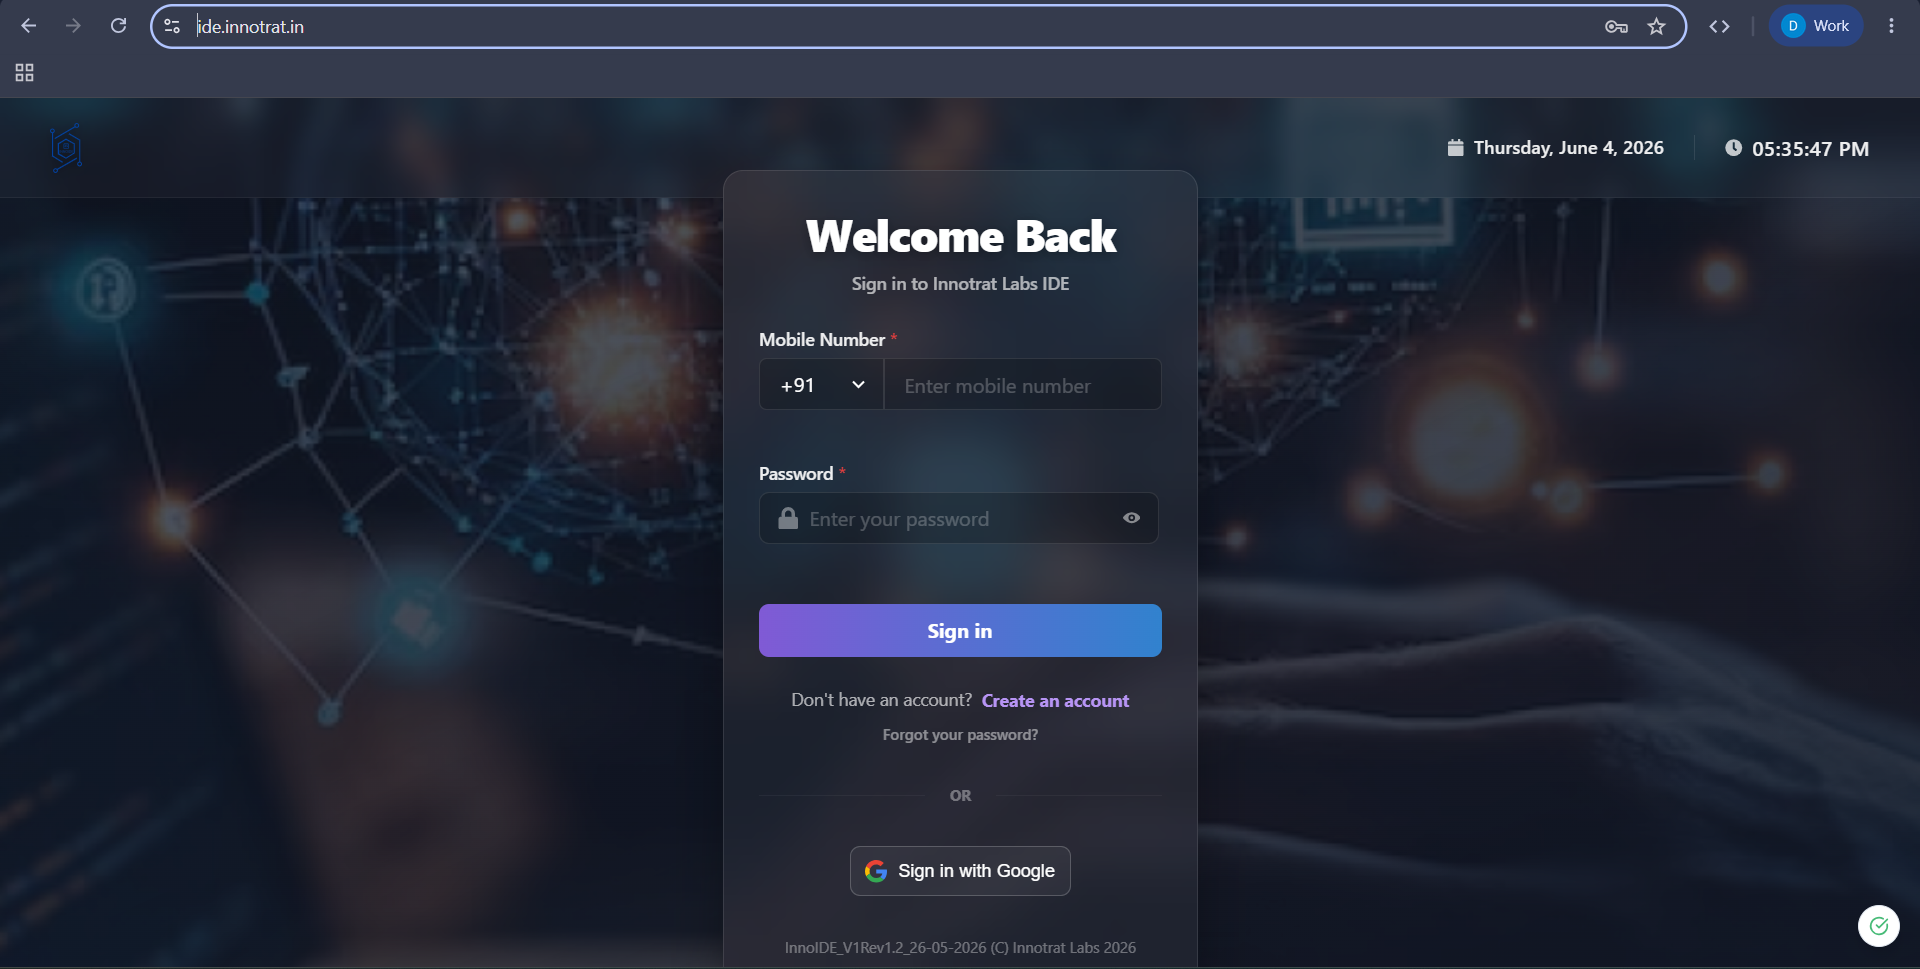
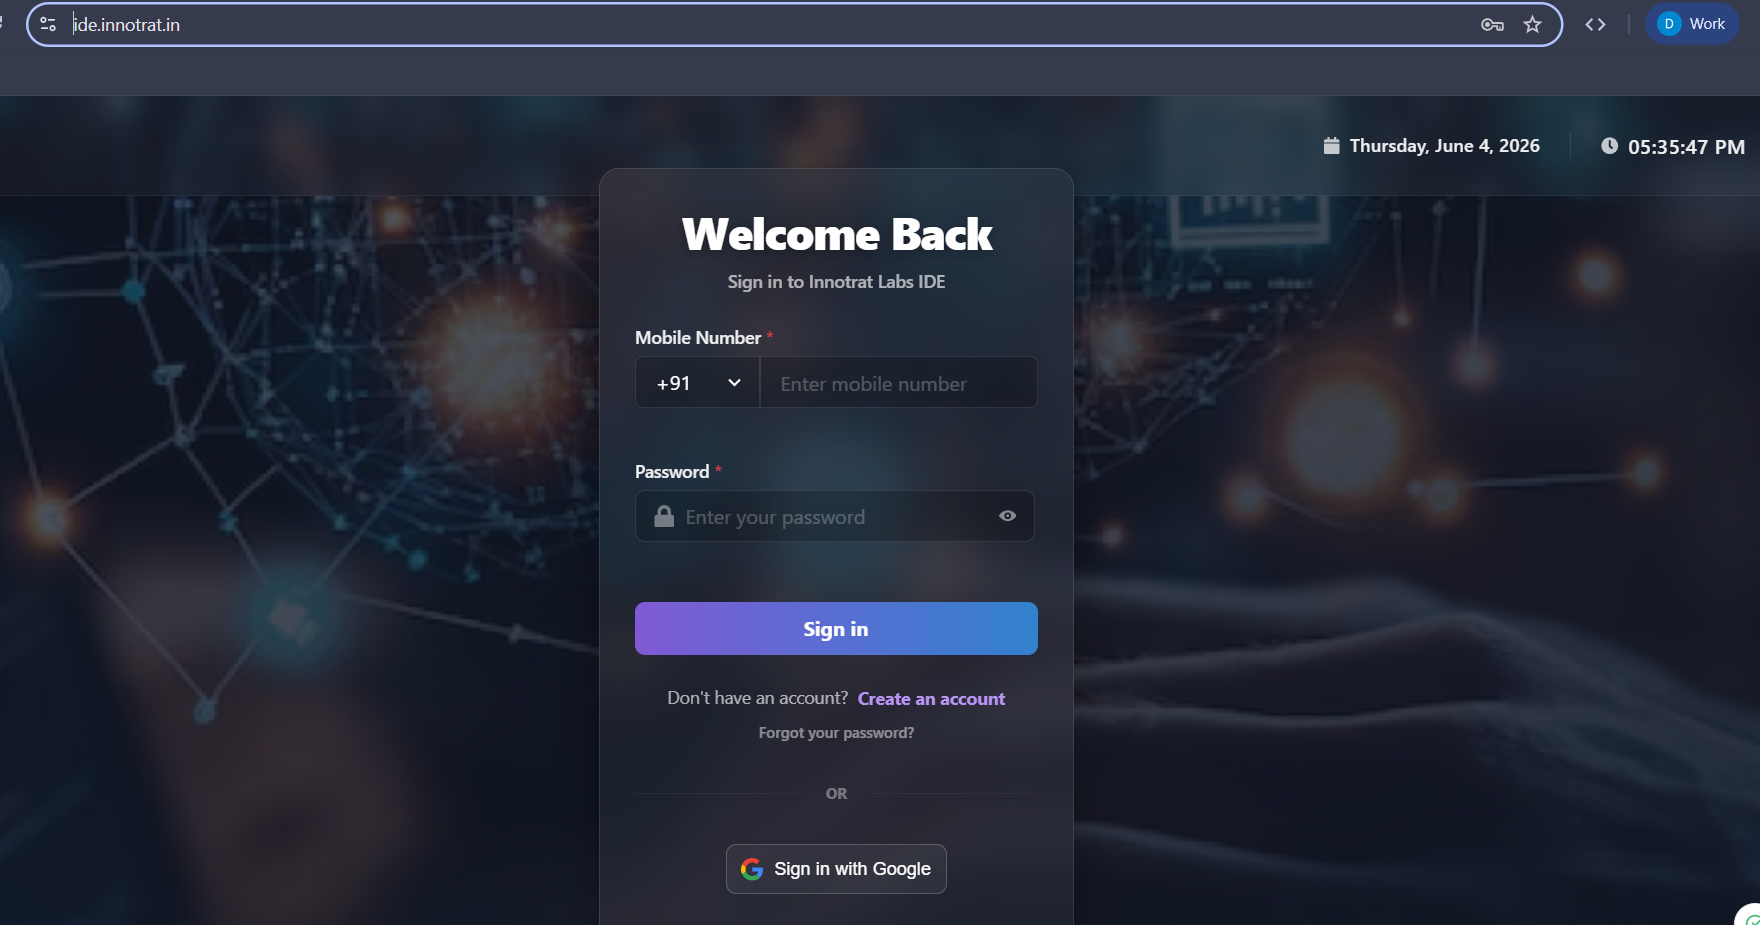
implement featured projects section

diff --git a/src/Components/Home.jsx b/src/Components/Home.jsx
@@ -1,99 +1,41 @@
-// import { motion } from "framer-motion";
-// import { Typewriter } from "react-simple-typewriter";
-
-// const Home = () => {
-//   return (
-//     <section id="home" className="h-screen flex items-center justify-center text-center bg-gray-900 text-white">
-//       <motion.div
-//         initial={{ opacity: 0, y: 50 }}
-//         animate={{ opacity: 1, y: 0 }}
-//         transition={{ duration: 1 }}
-//         className="flex flex-col items-center"
-//       >
-//         {/* Profile Image */}
-//         <motion.img
-//           src="/profile.jpeg"
-//           alt="DineshKumar"
-//           className="w-32 h-32 rounded-full border-4 border-blue-500 shadow-lg"
-//           initial={{ scale: 0 }}
-//           animate={{ scale: 1 }}
-//           transition={{ duration: 1, delay: 0.3 }}
-//         />
-
-//         {/* Title with Typewriter Effect */}
-//         <h1 className="text-5xl font-bold mt-4 bg-gradient-to-r from-blue-400 to-purple-500 text-transparent bg-clip-text">
-//           Hi, I'm{" "}
-//           <span className="text-white">
-//             <Typewriter
-//               words={["Dinesh Kumar M B", "a Developer", "a Coder", "a Tech Enthusiast"]}
-//               loop={0} // Infinite loop
-//               cursor
-//               cursorStyle="|"
-//               typeSpeed={100}
-//               deleteSpeed={60}
-//               delaySpeed={1200}
-//             />
-//           </span>
-//         </h1>
-
-//         {/* Subtitle */}
-//         <p className="text-lg text-gray-400 mt-2">
-//           Full-Stack Developer | React developer| Tech Enthusiast
-//         </p>
-
-//         {/* Contact Button */}
-//         <motion.a
-//           href="#contact"
-//           className="mt-6 px-6 py-2 bg-blue-500 rounded-full text-white text-lg font-semibold shadow-md hover:bg-blue-600 transition duration-300"
-//           whileHover={{ scale: 1.1 }}
-//           whileTap={{ scale: 0.9 }}
-//         >
-//           Contact Me
-//         </motion.a>
-//       </motion.div>
-//     </section>
-//   );
-// };
-
-// export default Home;
 
 
 import { motion } from "framer-motion";
 import { Typewriter } from "react-simple-typewriter";
-import { 
-  FaGithub, 
-  FaLinkedin, 
-  FaEnvelope, 
-  FaReact, 
-  FaNodeJs, 
-  FaJsSquare, 
-  FaHtml5, 
+import {
+  FaGithub,
+  FaLinkedin,
+  FaEnvelope,
+  FaReact,
+  FaNodeJs,
+  FaJsSquare,
+  FaHtml5,
   FaCss3Alt,
   FaGitAlt,
   FaLaptopCode,
   FaLightbulb
 } from "react-icons/fa";
-import { 
-  SiTailwindcss, 
-  SiMongodb, 
+import {
+  SiTailwindcss,
+  SiMongodb,
   SiRedux,
   SiExpress,
   SiVite
 } from "react-icons/si";
 
 const socialLinks = [
-  { 
-    icon: <FaGithub />, 
+  {
+    icon: <FaGithub />,
     url: "https://github.com/dineshkumar-mb",
     hoverClass: "hover:bg-slate-700 hover:text-white hover:shadow-[0_0_20px_rgba(255,255,255,0.4)]"
   },
-  { 
-    icon: <FaLinkedin />, 
+  {
+    icon: <FaLinkedin />,
     url: "https://www.linkedin.com/in/dinesh-kumar-mannibrundha13393/",
     hoverClass: "hover:bg-blue-600 hover:text-white hover:shadow-[0_0_20px_rgba(37,99,235,0.6)]"
   },
-  { 
-    icon: <FaEnvelope />, 
+  {
+    icon: <FaEnvelope />,
     url: "mailto:[email redacted]",
     hoverClass: "hover:bg-rose-600 hover:text-white hover:shadow-[0_0_20px_rgba(225,29,72,0.6)]"
   }
@@ -281,13 +223,13 @@ const Home = () => (
 
       {/* Glassmorphic Card */}
       <motion.div
-        className="relative bg-white/70 dark:bg-gray-900/30 backdrop-blur-md border border-slate-200/50 dark:border-white/10 w-full max-w-xl px-8 py-10 md:px-12 rounded-3xl shadow-lg dark:shadow-2xl hover:shadow-xl dark:hover:shadow-[0_20px_50px_rgba(139,92,246,0.15)] hover:border-slate-300 dark:hover:border-purple-500/30 flex flex-col items-center transition-all duration-500 group"
+        className="relative bg-white/70 dark:bg-gray-900/30 hover:bg-white/90 dark:hover:bg-white/5 backdrop-blur-md border border-slate-200/50 dark:border-white/10 w-full max-w-xl px-8 py-10 md:px-12 rounded-3xl shadow-lg dark:shadow-2xl hover:shadow-xl dark:hover:shadow-[0_20px_50px_rgba(167,139,250,0.2)] hover:border-slate-300 dark:hover:border-purple-400/50 flex flex-col items-center transition-all duration-500 group"
         initial={{ opacity: 0, scale: 0.97 }}
         animate={{ opacity: 1, scale: 1 }}
         transition={{ delay: 0.6, duration: 0.8 }}
       >
         {/* Soft backglow inside the card */}
-        <div className="absolute inset-0 rounded-3xl bg-gradient-to-br from-blue-500/0 via-transparent to-purple-500/0 group-hover:from-blue-500/5 group-hover:to-purple-500/5 transition-all duration-500 pointer-events-none" />
+        <div className="absolute inset-0 rounded-3xl bg-gradient-to-br from-blue-500/0 via-transparent to-purple-500/0 group-hover:from-blue-400/10 group-hover:to-purple-400/10 transition-all duration-500 pointer-events-none" />
 
         {/* Typewriter Name Heading with Animated Underline */}
         <h1 className="text-3xl md:text-5xl font-extrabold mb-3 text-center bg-gradient-to-r from-blue-600 via-purple-600 to-pink-500 dark:from-blue-400 dark:via-purple-400 dark:to-pink-400 text-transparent bg-clip-text leading-tight">
@@ -308,7 +250,7 @@ const Home = () => (
             />
           </span>
         </h1>
-        <span className="block h-1 w-24 mt-4 mb-7 bg-gradient-to-r from-blue-550 via-purple-550 to-pink-550 dark:from-blue-400 dark:via-purple-500 dark:to-pink-400 rounded-full animate-pulse"></span>
+        <span className="block h-1 w-24 mt-8 mb-5 bg-gradient-to-r from-blue-550 via-purple-550 to-pink-550 dark:from-blue-400 dark:via-purple-500 dark:to-pink-400 rounded-full animate-pulse"></span>
 
         {/* Subtitle Badges & Metrics */}
         <div className="flex flex-wrap justify-center gap-2 sm:gap-3 mb-6 relative z-10 w-full max-w-lg">
@@ -321,7 +263,7 @@ const Home = () => (
             Open to Full-Stack Opportunities
           </span>
         </div>
-        
+
         <div className="flex flex-wrap justify-center gap-2 sm:gap-3 mb-8 relative z-10 w-full">
           {[
             "3+ Years Experience",
@@ -361,7 +303,7 @@ const Home = () => (
           >
             View Projects
           </motion.a>
-          
+
           <motion.a
             href="/new_resume.pdf"
             download="Dineshfullstackresume.pdf"
@@ -371,7 +313,7 @@ const Home = () => (
           >
             Download Resume
           </motion.a>
-          
+
           <motion.a
             href="#contact"
             className="px-6 sm:px-8 py-3 bg-transparent hover:bg-slate-50 dark:hover:bg-white/5 rounded-full font-bold text-blue-600 dark:text-blue-400 text-sm sm:text-base border border-blue-600 dark:border-blue-500/50 transition-all duration-300"

diff --git a/src/Components/Header.jsx b/src/Components/Header.jsx
@@ -25,7 +25,7 @@ const Header = ({ theme, toggleTheme }) => {
     e.preventDefault();
     setMenuOpen(false);
     const targetId = item.toLowerCase();
-    
+
     if (location.pathname !== "/") {
       navigate(`/#${targetId}`);
     } else {
@@ -57,7 +57,7 @@ const Header = ({ theme, toggleTheme }) => {
   return (
     <header className={`fixed w-full top-0 z-20 transition duration-300 ${scrolled ? "bg-white/70 dark:bg-[#030014]/60 backdrop-blur-md border-b border-slate-200/50 dark:border-white/5 shadow-md dark:shadow-lg dark:shadow-purple-500/5 text-slate-800 dark:text-white" : "bg-transparent text-slate-800 dark:text-white"}`}>
       <nav className="container mx-auto px-6 md:px-20 flex justify-between items-center py-4">
-        
+
         {/* Logo */}
         <motion.h1
           className="text-2xl font-bold cursor-pointer text-slate-800 dark:text-white"
@@ -72,7 +72,7 @@ const Header = ({ theme, toggleTheme }) => {
         {/* Desktop Menu */}
         <div className="hidden md:flex items-center gap-6">
           <ul className="flex gap-6">
-            {["Home", "About","Experience","Skills", "Projects", "Certifications", "Contact"].map((item) => (
+            {["Home", "About", "Experience", "Skills", "Projects", "Certifications", "Contact"].map((item) => (
               <li key={item}>
                 <a
                   href={`/#${item.toLowerCase()}`}
@@ -111,7 +111,7 @@ const Header = ({ theme, toggleTheme }) => {
         <motion.div
           className={`fixed top-0 right-0 h-full w-2/3 bg-white/95 dark:bg-[#030014]/95 backdrop-blur-lg border-l border-slate-200 dark:border-white/10 shadow-2xl p-8 flex flex-col gap-6 transform ${menuOpen ? "translate-x-0" : "translate-x-full"} transition-transform duration-300`}
         >
-          {["Home", "About","Experience","Skills", "Projects", "Certifications", "Contact"].map((item) => (
+          {["Home", "About", "Experience", "Skills", "Projects", "Certifications", "Contact"].map((item) => (
             <a
               key={item}
               href={`/#${item.toLowerCase()}`}
@@ -145,3 +145,4 @@ const Header = ({ theme, toggleTheme }) => {
 };
 
 export default Header;
+

diff --git a/src/Components/FeaturedProjects.jsx b/src/Components/FeaturedProjects.jsx
@@ -1,6 +1,8 @@
 import { motion } from "framer-motion";
 import { Link } from "react-router-dom";
 import { FaExternalLinkAlt, FaGithub } from "react-icons/fa";
+import emiPlatformImg from "../assets/emi-platform.png";
+import taskflowImg from "../assets/Taskflow.png";
 
 const featured = [
   {
@@ -12,7 +14,7 @@ const featured = [
     github: "https://github.com/dineshkumar-mb",
     live: "https://emi-frontend-platform.vercel.app/",
     route: "/projects/emi-loan-intelligence",
-    image: "/src/assets/emi-platform.png"
+    image: emiPlatformImg
   },
   {
     title: "TaskFlow - AI-Powered Sprint Management SaaS",
@@ -23,7 +25,7 @@ const featured = [
     github: "https://github.com/dineshkumar-mb/taskflow-frontend.git",
     live: "https://taskflow-frontend-self.vercel.app/login",
     route: "/projects/taskflow-ai",
-    image: "/src/assets/Taskflow.png"
+    image: taskflowImg
   },
   {
     title: "InnoIDE",

diff --git a/src/index.css b/src/index.css
@@ -8,9 +8,11 @@
     font-family: 'Inter', system-ui, -apple-system, sans-serif;
     transition: background-color 0.5s ease, color 0.5s ease;
   }
+
   html.dark {
     background-color: #030014;
   }
+
   html.light {
     background-color: #f8fafc;
   }
@@ -18,7 +20,7 @@
 
 /* Custom premium background grid and dot patterns */
 .bg-grid-pattern {
-  background-image: 
+  background-image:
     linear-gradient(to right, rgba(15, 23, 42, 0.04) 1px, transparent 1px),
     linear-gradient(to bottom, rgba(15, 23, 42, 0.04) 1px, transparent 1px);
   background-size: 50px 50px;
@@ -26,7 +28,7 @@
 }
 
 html.dark .bg-grid-pattern {
-  background-image: 
+  background-image:
     linear-gradient(to right, rgba(255, 255, 255, 0.015) 1px, transparent 1px),
     linear-gradient(to bottom, rgba(255, 255, 255, 0.015) 1px, transparent 1px);
 }